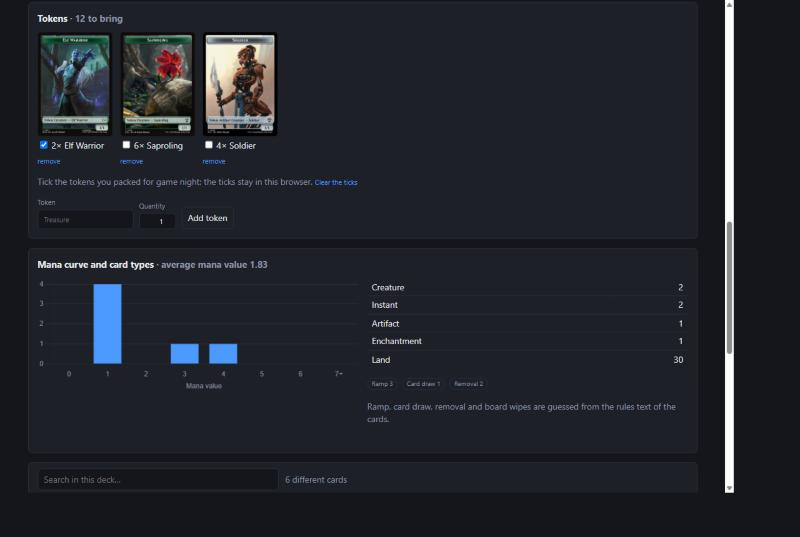
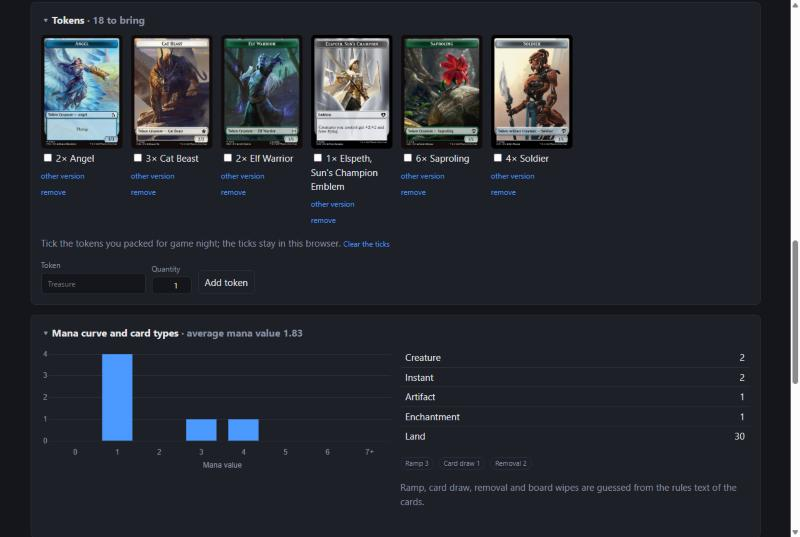
README: screenshots of folded panels, tokens with an emblem, the wishlist

diff --git a/README.md b/README.md
@@ -61,7 +61,9 @@ price.
 
 ![Logging a game from the deck page, and the value of the deck's copies over the last month](docs/deck-value.jpg)
 
-![The tokens of a deck with their pictures and a tick box per token for packing, and its mana curve and card types](docs/deck-tokens.jpg)
+![The tokens and emblems of a deck in alphabetical order, with their pictures and a tick box per token for packing, and its mana curve and card types](docs/deck-tokens.jpg)
+
+![Parts of a deck folded away by clicking their title: only what you need stays open](docs/deck-folded.jpg)
 
 ![Choosing which Angel token: every token with that name, by picture](docs/deck-token-versions.jpg)
 
